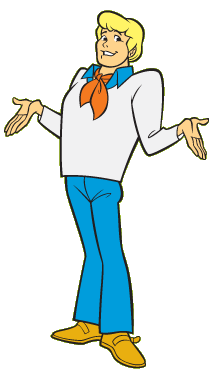
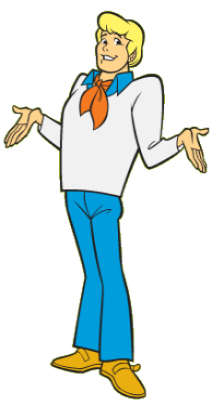
Adjusted Fred pic siz to match others

diff --git a/project0/aboutUs.html b/project0/aboutUs.html
@@ -30,6 +30,9 @@
             text-align: center;
             display: block;
         }
+        h2 {
+            text-align: center;
+        }
 
     </style>
   </head>
@@ -92,7 +95,7 @@
                         <img src="images/gang/Fred_Jones.png" alt="Fred" class="pic" id="pic_fred" width="100%">
                     </div>
                     <div class="row" class="name" id="name_fred">
-                        Fred
+                        <h2>Fred</h2>
                     </div>
                 </div>
                 <!--Daphne-->
@@ -105,6 +108,7 @@
                     </div>
                 </div>
 
+        
         <div class="container">
             <div class="row">
                 <div class="col">
